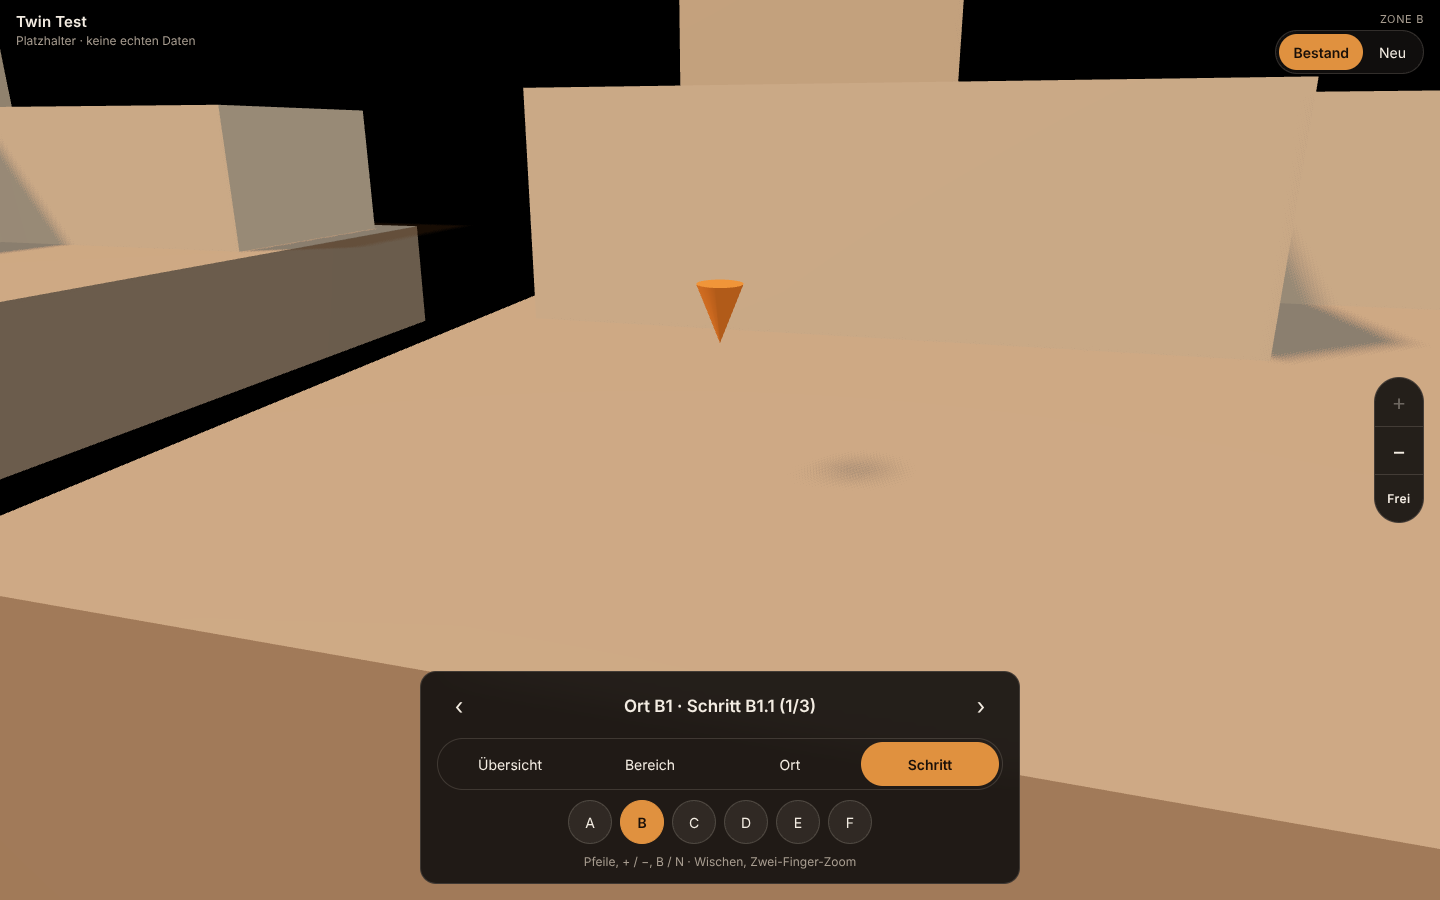
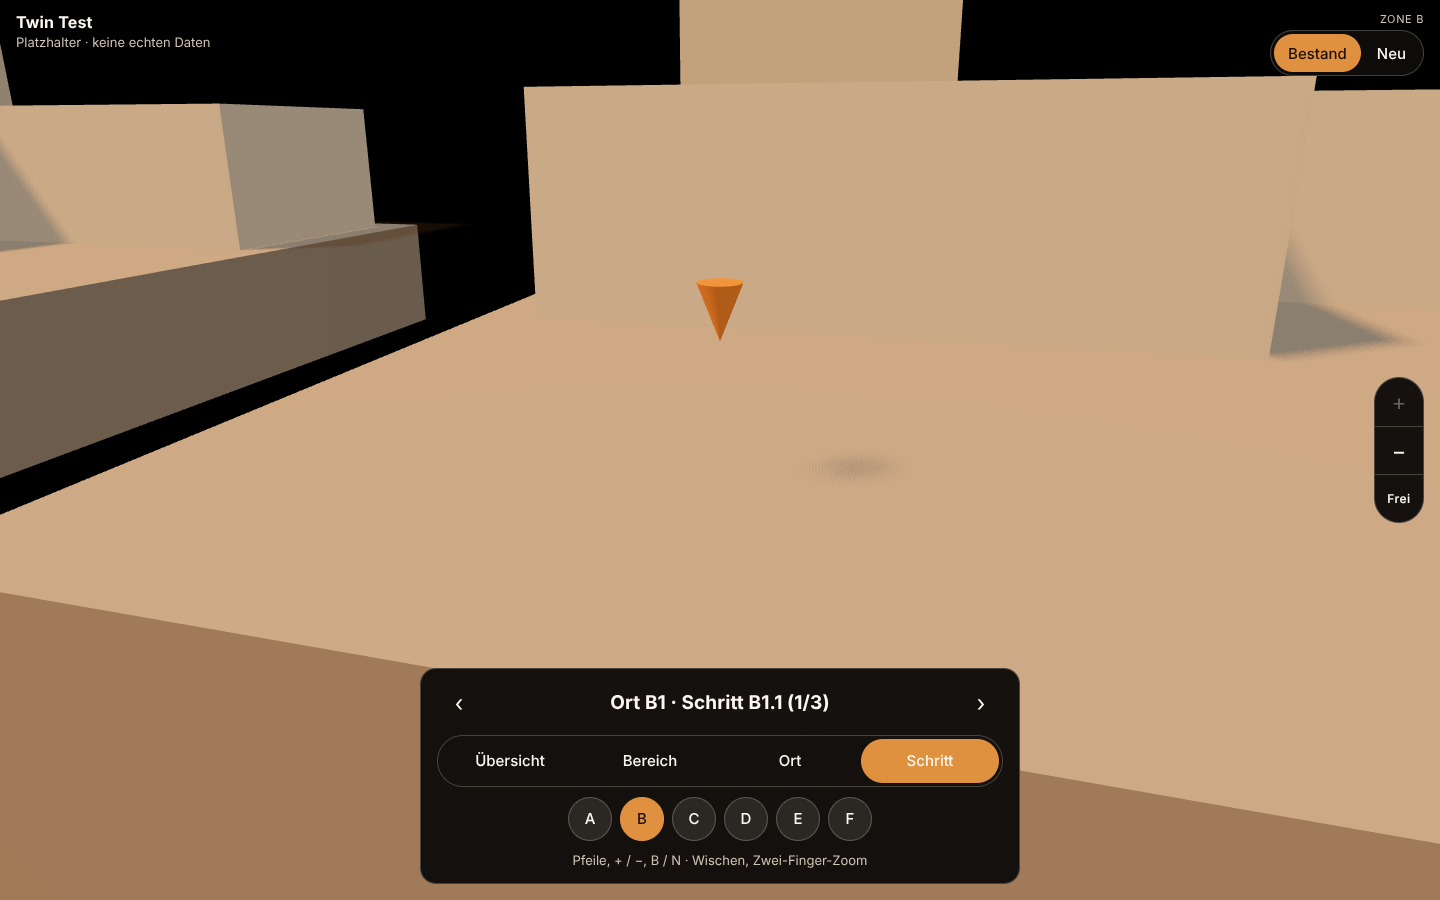
Lesbarkeit: deckende Flächen, hellere Schrift, größere Grade
Über hellen Fotostellen ertrank der Text im halbtransparenten Blatt.
Blatt und Chips deckender, Blur schwächer, Schrift heller (--ink, --muted),
Linien kräftiger; Titel 19 px fett, Knöpfe 15 px, Hinweis 13 px.
Platzhalter-Screenshots neu.

Claude-Session: https://claude.ai/code/session_01JUrGruTpgBUqnfuUWhoZ6h

diff --git a/src/style.css b/src/style.css
@@ -6,11 +6,11 @@
  */
 :root {
   --bg: #000;
-  --sheet: rgba(18, 16, 14, 0.9);
-  --chip: rgba(255, 244, 228, 0.07);
-  --ink: #f3ece2;
-  --muted: #a89d90;
-  --line: rgba(255, 244, 228, 0.14);
+  --sheet: rgba(14, 12, 10, 0.97);
+  --chip: rgba(255, 244, 228, 0.1);
+  --ink: #fbf6ee;
+  --muted: #cfc3b3;
+  --line: rgba(255, 244, 228, 0.22);
   --accent: #e0913f;
   --accent-ink: #1a1009;
   --focus: #8cc4ff;
@@ -97,8 +97,8 @@ button:disabled {
 }
 .brand h1 {
   margin: 0;
-  font-size: 15px;
-  font-weight: 600;
+  font-size: 16px;
+  font-weight: 700;
   letter-spacing: 0.01em;
   white-space: nowrap;
   overflow: hidden;
@@ -106,7 +106,7 @@ button:disabled {
 }
 .brand p {
   margin: 2px 0 0;
-  font-size: 12px;
+  font-size: 13px;
   color: var(--muted);
   white-space: nowrap;
   overflow: hidden;
@@ -135,11 +135,12 @@ button:disabled {
 }
 .variant button {
   border: 0;
-  min-height: 36px;
+  min-height: 38px;
   min-width: 0;
   padding: 0 14px;
   background: transparent;
-  font-size: 14px;
+  font-size: 15px;
+  font-weight: 500;
 }
 .variant button[aria-pressed='true'],
 .stages button[aria-pressed='true'] {
@@ -195,7 +196,7 @@ body[data-free='true'] .where-row button {
   background: var(--sheet);
   border-top: 1px solid var(--line);
   border-radius: var(--radius) var(--radius) 0 0;
-  backdrop-filter: blur(14px);
+  backdrop-filter: blur(6px);
   display: grid;
   gap: var(--gap);
 }
@@ -224,9 +225,11 @@ body[data-free='true'] .where-row button {
   margin: 0;
   min-width: 0;
   text-align: center;
-  font-size: 17px;
-  font-weight: 600;
+  font-size: 19px;
+  font-weight: 700;
+  letter-spacing: 0.005em;
   text-wrap: balance;
+  color: var(--ink);
 }
 
 .stages {
@@ -242,7 +245,9 @@ body[data-free='true'] .where-row button {
   min-width: 0;
   padding: 0 4px;
   background: transparent;
-  font-size: 14px;
+  font-size: 15px;
+  font-weight: 500;
+  color: var(--ink);
 }
 
 /* Bereiche als waagrechte Reihe, wischbar */
@@ -264,7 +269,8 @@ body[data-free='true'] .where-row button {
   white-space: nowrap;
   overflow: hidden;
   text-overflow: ellipsis;
-  font-size: 14px;
+  font-size: 15px;
+  font-weight: 500;
 }
 /* Punkt markiert Bereiche, die "Neu" zeigen */
 .zones button[data-neu='true']::after {
@@ -282,7 +288,8 @@ body[data-free='true'] .where-row button {
   display: none;
   margin: 0;
   text-align: center;
-  font-size: 12px;
+  font-size: 13px;
+  line-height: 1.4;
   color: var(--muted);
 }
 
